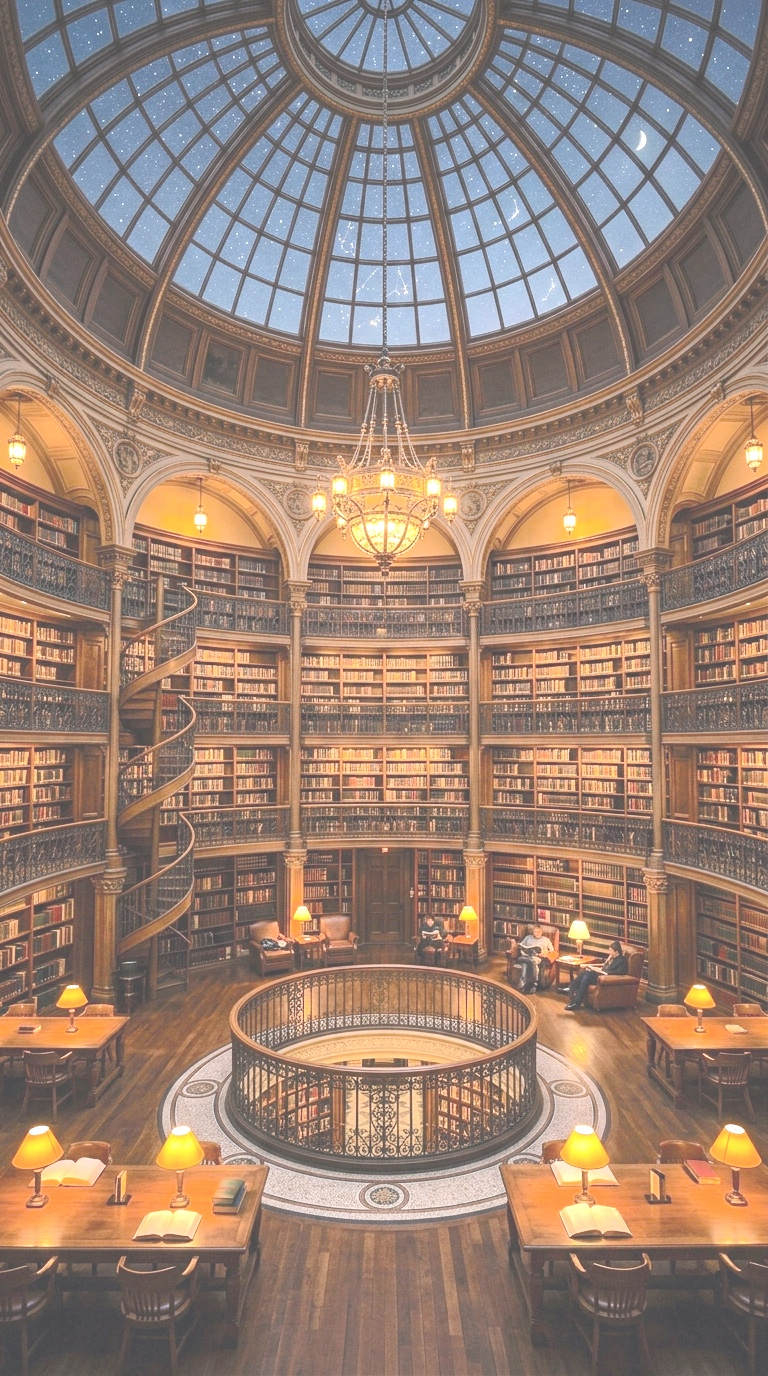
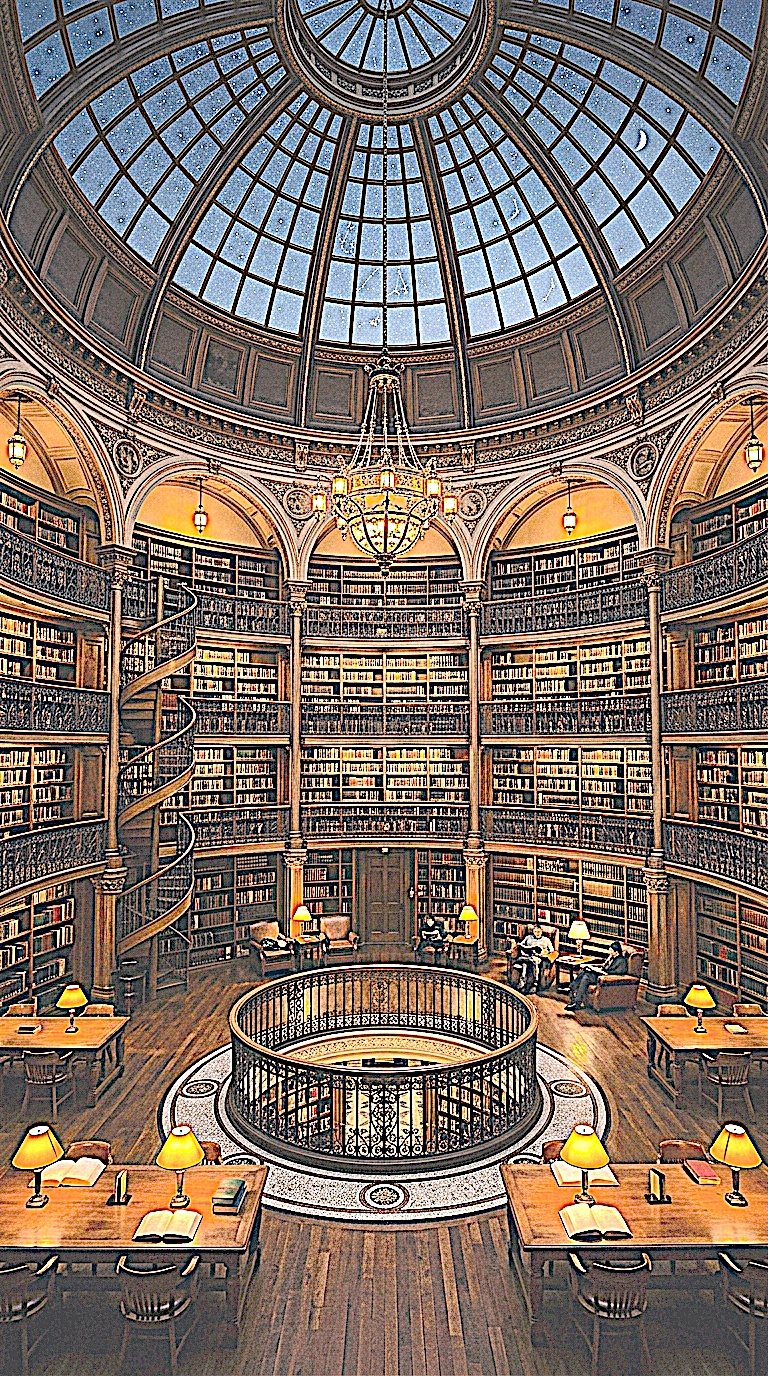
feat(explore): eliminate all blur and overlays for 100% crystal-clear sharp background

diff --git a/lib/features/explore/presentation/widgets/grand_bookshelf_wall_widget.dart b/lib/features/explore/presentation/widgets/grand_bookshelf_wall_widget.dart
@@ -884,6 +884,7 @@ class _GrandBookshelfWallWidgetState extends State<GrandBookshelfWallWidget>
                     child: Image.asset(
                       _targetCamera.bgAsset,
                       fit: BoxFit.cover,
+                      filterQuality: FilterQuality.high,
                       errorBuilder: (context, error, stackTrace) => Container(
                         color: const Color(0xFF19130D),
                       ),
@@ -913,6 +914,7 @@ class _GrandBookshelfWallWidgetState extends State<GrandBookshelfWallWidget>
                     child: Image.asset(
                       _prevCamera.bgAsset,
                       fit: BoxFit.cover,
+                      filterQuality: FilterQuality.high,
                       errorBuilder: (context, error, stackTrace) => Container(
                         color: const Color(0xFF19130D),
                       ),
@@ -921,20 +923,14 @@ class _GrandBookshelfWallWidgetState extends State<GrandBookshelfWallWidget>
                 ),
               ),
             ] else ...[
-              // Settled Current Library Perspective
+              // Settled Current Library Perspective - 100% Crisp Pixel-for-Pixel
               Positioned.fill(
-                child: Transform(
-                  alignment: Alignment.center,
-                  transform: Matrix4.identity()
-                    ..setEntry(3, 2, 0.001)
-                    ..translateByDouble(bgX, bgY, 0.0, 1.0)
-                    ..rotateY(rotY)
-                    ..rotateX(rotX)
-                    ..rotateZ(rotZ)
-                    ..scaleByDouble(baseScale, baseScale, 1.0, 1.0),
+                child: Transform.translate(
+                  offset: Offset(bgX, bgY),
                   child: Image.asset(
                     currentCamera.bgAsset,
                     fit: BoxFit.cover,
+                    filterQuality: FilterQuality.high,
                     errorBuilder: (context, error, stackTrace) => Container(
                       color: const Color(0xFF19130D),
                     ),
@@ -943,26 +939,28 @@ class _GrandBookshelfWallWidgetState extends State<GrandBookshelfWallWidget>
               ),
             ],
 
-            // 2. Subtle Atmospheric Wing Tint
-            Positioned.fill(
-              child: Container(
-                color: currentCamera.ambientTint,
+            // 2. Atmospheric Tint (Dark Mode only - completely clear in Light Mode)
+            if (isDark)
+              Positioned.fill(
+                child: Container(
+                  color: currentCamera.ambientTint,
+                ),
               ),
-            ),
 
-            // 3. Very Soft Ambient Vignette (Keeps rotunda fully visible & luminous)
-            Positioned.fill(
-              child: Container(
-                decoration: BoxDecoration(
-                  gradient: LinearGradient(
-                    begin: Alignment.topCenter,
-                    end: Alignment.bottomCenter,
-                    colors: currentCamera.vignetteGradient,
-                    stops: const [0.0, 0.40, 1.0],
+            // 3. Ambient Vignette (Dark Mode only - zero fog in Light Mode)
+            if (isDark)
+              Positioned.fill(
+                child: Container(
+                  decoration: BoxDecoration(
+                    gradient: LinearGradient(
+                      begin: Alignment.topCenter,
+                      end: Alignment.bottomCenter,
+                      colors: currentCamera.vignetteGradient,
+                      stops: const [0.0, 0.40, 1.0],
+                    ),
                   ),
                 ),
               ),
-            ),
 
             // 4. Open Floating Rotunda Shelves Content
             Positioned.fill(
